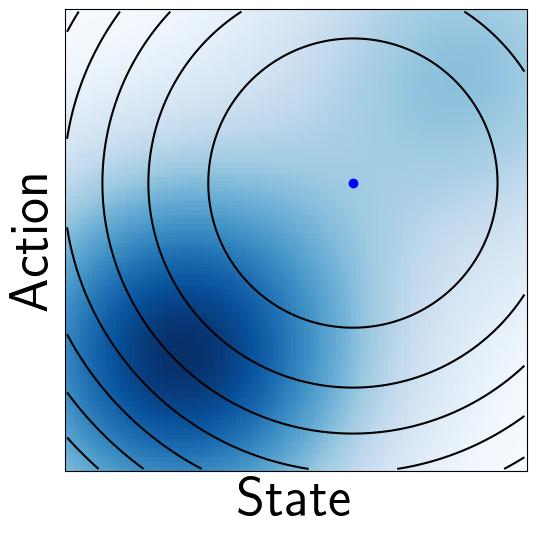
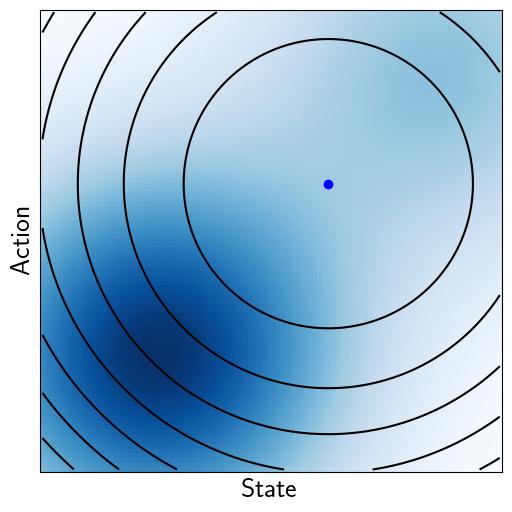
Update OOD

diff --git a/Safety/Codes/Epistemic/OOD_Policy3.py b/Safety/Codes/Epistemic/OOD_Policy3.py
@@ -102,8 +102,8 @@ for case in ['Map','Star','OOD']:
         ax1.set_aspect('equal', 'box')
         ax1.set_xticks([])
         ax1.set_yticks([])
-        ax1.set_xlabel('State',fontsize=FS)
-        ax1.set_ylabel('Action',fontsize=FS)
+        ax1.set_xlabel('State',fontsize=20)
+        ax1.set_ylabel('Action',fontsize=20)
         ax1.contour(sv,av,Lplot['Star'],colors='k',linestyles='solid')
         ax1.plot(sref,aref,marker='o',color='b')
         
